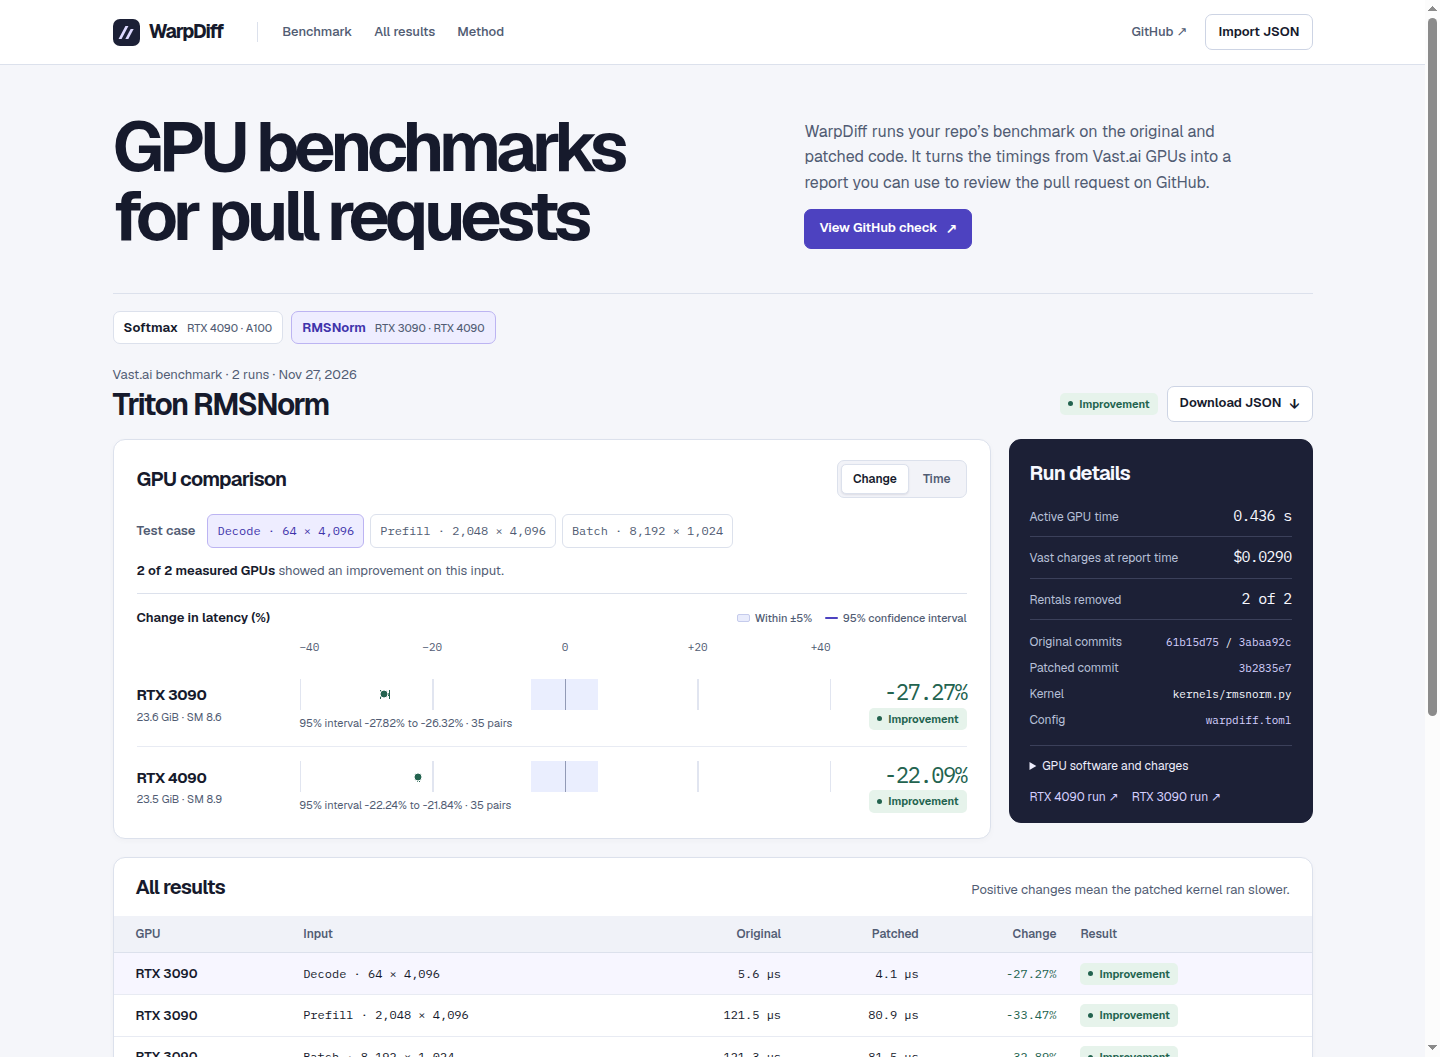
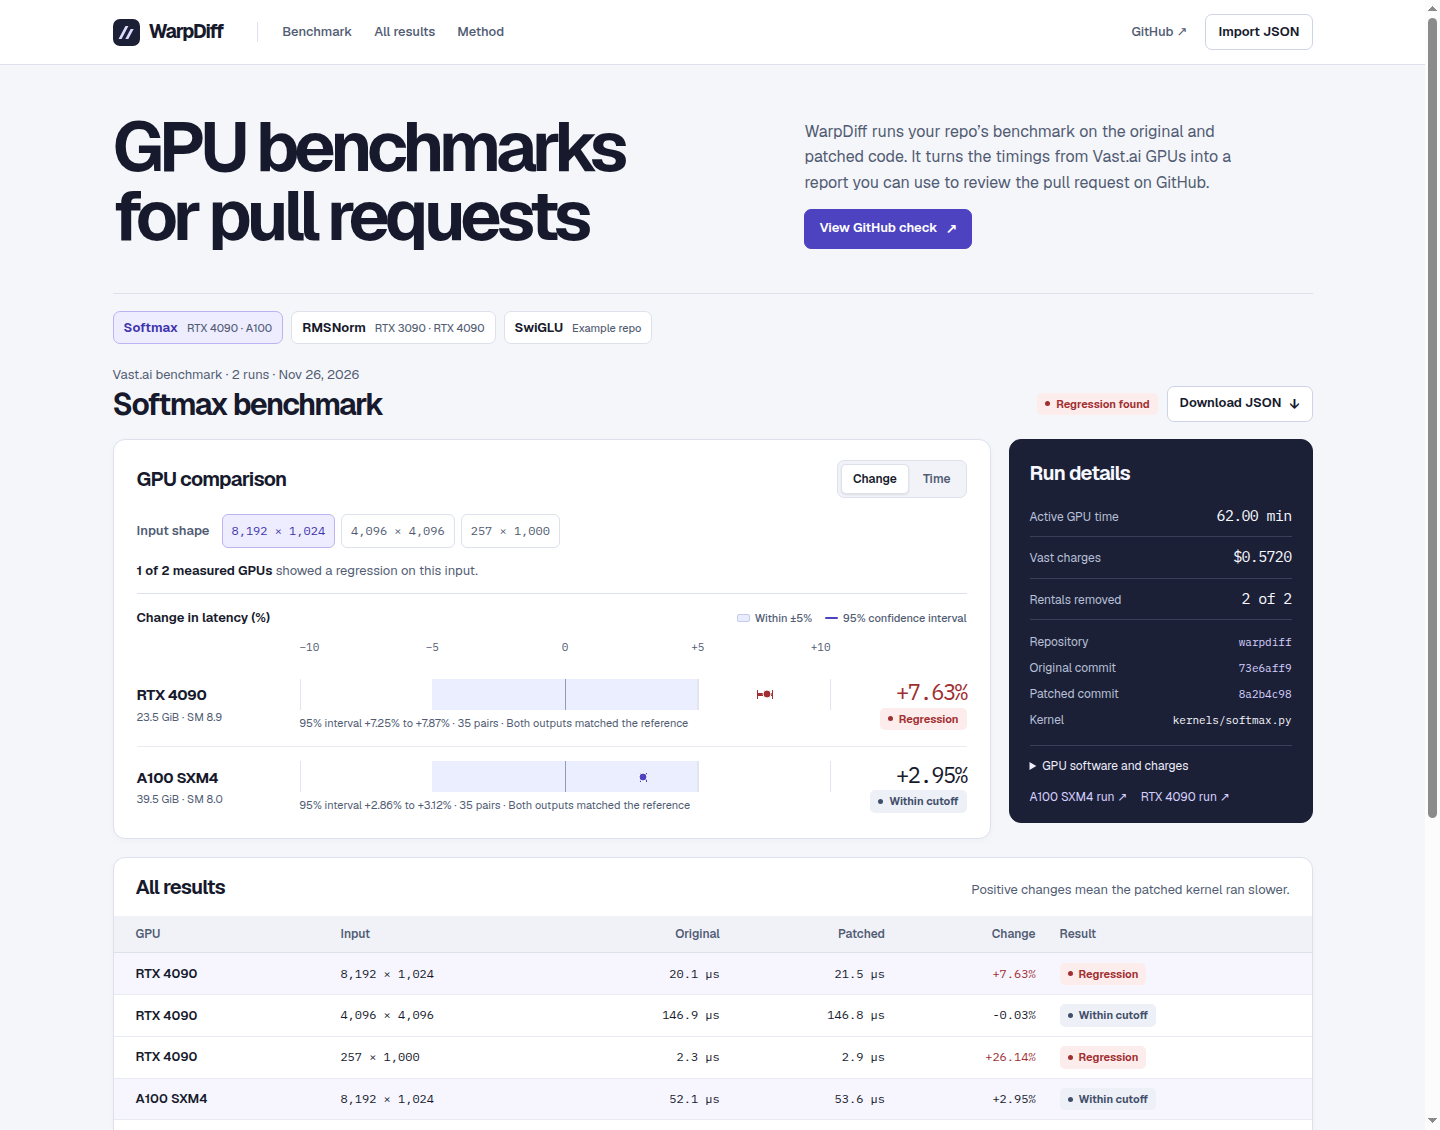
Publish the verified benchmark from the example repository

diff --git a/site/app.js b/site/app.js
@@ -12,7 +12,7 @@ const axisFormatter = new Intl.NumberFormat('en-US', {maximumSignificantDigits: 
 const dateFormatter = new Intl.DateTimeFormat('en-US', {dateStyle: 'medium', timeZone: 'UTC'});
 const shaPattern = /^[0-9a-f]{40,64}$/i;
 const caseIdPattern = /^[a-z0-9][a-z0-9-]{0,31}$/;
-const publications = {softmax: 'report.json', rmsnorm: 'rmsnorm.json'};
+const publications = {softmax: 'report.json', rmsnorm: 'rmsnorm.json', swiglu: 'swiglu.json'};
 const requestedPublication = new URLSearchParams(window.location?.search ?? '').get('benchmark');
 const publication = Object.hasOwn(publications, requestedPublication) ? requestedPublication : 'softmax';
 const publicationPath = publications[publication];
@@ -164,13 +164,14 @@ function gpuRow(card, item, limit, timeView) {
     const note = timeView
       ? `Original ${latency(item.base_ms)} · Patched ${latency(item.head_ms)}`
       : `95% interval ${item.interval_pct.map(percent).join(' to ')} · ${item.paired_samples} pairs`;
+    const correctness = item.correctness?.passed === true ? ' · Both outputs matched the reference' : '';
     measurement.append(
       timeView ? timeTrack(item, limit) : changeTrack(item, limit),
-      element('p', 'measurement-note', note),
+      element('p', 'measurement-note', note + correctness),
     );
     verdict.append(element('span', 'delta', percent(item.change_pct)));
   } else {
-    const note = status === 'incorrect' ? 'An output differed from PyTorch.' : 'No timing for this GPU.';
+    const note = status === 'incorrect' ? 'An output differed from the reference.' : 'No timing for this GPU.';
     measurement.append(element('p', 'missing', note));
   }
   verdict.append(badge(status));
@@ -329,6 +330,7 @@ function showProvenance(repoUrl, sources) {
     detail(baselines.size > 1 ? 'Original commits' : 'Original commit', commitLabel(repoUrl, [...baselines])),
     detail('Patched commit', commitLabel(repoUrl, [report.head.sha])),
   ];
+  if (repoUrl) fields.unshift(detail('Repository', githubLink(repoUrl, report.repository.split('/')[1])));
   if (typeof report.kernel === 'string') fields.push(detail('Kernel', report.kernel));
   if (repoUrl && typeof report.benchmark?.id === 'string') {
     fields.push(detail('Config', githubLink(`${repoUrl}/blob/${report.base.sha}/warpdiff.toml`, 'warpdiff.toml')));

diff --git a/site/index.html b/site/index.html
@@ -44,6 +44,7 @@
       <nav class="benchmark-tabs" aria-label="Published benchmarks" id="benchmark-tabs" hidden>
         <a href="./?benchmark=softmax" data-benchmark="softmax">Softmax <span>RTX 4090 · A100</span></a>
         <a href="./?benchmark=rmsnorm" data-benchmark="rmsnorm">RMSNorm <span>RTX 3090 · RTX 4090</span></a>
+        <a href="./?benchmark=swiglu" data-benchmark="swiglu">SwiGLU <span>Example repo</span></a>
       </nav>
       <header class="report-header">
         <div>
@@ -117,6 +118,7 @@
       <div class="method-intro">
         <h2 id="method-title">How the check works</h2>
         <a class="text-link" href="https://github.com/NSEVEjk0/warpdiff#use-warpdiff-in-another-repo">Set up WarpDiff in your repo <span aria-hidden="true">↗</span></a>
+        <a class="text-link" href="https://github.com/NSEVEjk0/warpdiff-triton-example">See the example repo <span aria-hidden="true">↗</span></a>
       </div>
       <ol class="method-steps">
         <li><h3>Check the outputs</h3><p>WarpDiff reads the GPU models and cases from your repo, then compares both versions with the same reference on each GPU.</p></li>

diff --git a/site/styles.css b/site/styles.css
@@ -438,8 +438,8 @@ h1 span { display: block; }
   .intro { grid-template-columns: 1fr; gap: 13px; padding-block: 28px 23px; }
   .intro-context p { font-size: 14px; }
   .intro-context .button { margin-top: 10px; }
-  .benchmark-tabs { gap: 5px; padding-top: 12px; }
-  .benchmark-tabs a { flex-direction: column; padding-inline: 8px; }
+  .benchmark-tabs { display: grid; grid-template-columns: repeat(3, minmax(0, 1fr)); gap: 5px; padding-top: 12px; }
+  .benchmark-tabs a { flex-flow: column nowrap; padding-inline: 8px; }
   .report-header { align-items: start; flex-direction: column; gap: 8px; padding-block: 16px 13px; }
   .report-header h2, .method h2 { font-size: 25px; }
   .comparison { padding: 14px 13px 6px; --plot-columns: minmax(0, 1fr) auto; --plot-gap: 9px; }

diff --git a/submission/README.md b/submission/README.md
@@ -4,9 +4,11 @@
 
 [RMSNorm report](https://warpdiff.vercel.app/?benchmark=rmsnorm) · [RMSNorm check](https://github.com/NSEVEjk0/warpdiff/pull/2/checks)
 
+[SwiGLU report](https://warpdiff.vercel.app/?benchmark=swiglu) · [SwiGLU check in the example repo](https://github.com/NSEVEjk0/warpdiff-triton-example/runs/140704413666)
+
 [Demo screenshot](https://warpdiff.vercel.app/demo.png)
 
-The softmax benchmark tested commit `8a2b4c98ac54df066330360c46a2ba392ff2641c`. The RMSNorm benchmark tested `3b2835e7df8f73e9511dfe4d3f6e0cac59919769`.
+The softmax benchmark tested commit `8a2b4c98ac54df066330360c46a2ba392ff2641c`. The RMSNorm benchmark tested `3b2835e7df8f73e9511dfe4d3f6e0cac59919769`. The SwiGLU benchmark tested `8d1dfa1e0c4bacea0e11141b8e54804ba529a2dc`.
 
 ## What the runs show
 
@@ -14,7 +16,9 @@ The softmax benchmark tested commit `8a2b4c98ac54df066330360c46a2ba392ff2641c`. 
 
 **RMSNorm.** The configuration selected three cases, an RTX 3090, and an RTX 4090. Both versions matched PyTorch for all three inputs on both GPUs. Fusing the reduction and scaling lowered kernel time by **21–33%**, and the check passed. The first RTX 3090 offer expired before rental. WarpDiff reused the 4090 timings on the retry and verified the source and benchmark definition before combining the results. [Config](https://github.com/NSEVEjk0/warpdiff/blob/main/warpdiff.toml) · [Combined RMSNorm run](https://github.com/NSEVEjk0/warpdiff/actions/runs/46041898731)
 
-Both reports include the raw timings and rental charges. Vast confirmed the benchmark rentals were deleted.
+**SwiGLU.** The separate example repo installed WarpDiff v0.2.1 and supplied its own kernel, PyTorch reference, and two input sizes. Both versions matched PyTorch on an RTX 3090. Fusing the activation and multiplication lowered kernel time by **35.35%** for 65,537 elements and **39.82%** for 4,194,304 elements. [Example workflow](https://github.com/NSEVEjk0/warpdiff-triton-example/blob/main/.github/workflows/warpdiff.yml) · [Vast benchmark run](https://github.com/NSEVEjk0/warpdiff-triton-example/actions/runs/46057769048)
+
+Each report includes the raw timings and rental charges. Vast confirmed the benchmark rentals were deleted.
 
 ## Entry requirements
 
@@ -28,7 +32,7 @@ The deadline for both is Sunday, November 29, 2026 at 11:59 p.m. PST, which is M
 
 1. Open Softmax on the `8,192 × 1,024` input. Show where the patch crossed the cutoff on the RTX 4090. Open the pull request check.
 2. Switch to RMSNorm. Show the config’s GPU choices and cases, then open the passing pull request check for the fused kernel.
-3. Show where another repo can add its own benchmark and call the same action. Both reports have a JSON download with the individual timings.
+3. Open SwiGLU and follow the check to the separate repo. Show the workflow step that calls the released action and the two cases in `warpdiff.toml`. Use Download JSON to see the individual timings.
 
 Credit the tools you used. WarpDiff rented GPUs from Vast.ai, ran the Triton kernels in the PyTorch CUDA image, and checked the outputs against PyTorch.
 

diff --git a/README.md b/README.md
@@ -2,7 +2,7 @@
 
 WarpDiff runs a repo’s GPU benchmark on the original and patched code. It rents the GPU models you choose from Vast.ai, checks both outputs, and posts the timings under **Checks** on the pull request.
 
-[Softmax report](https://warpdiff.vercel.app/?benchmark=softmax) · [RMSNorm report](https://warpdiff.vercel.app/?benchmark=rmsnorm)
+[Softmax report](https://warpdiff.vercel.app/?benchmark=softmax) · [RMSNorm report](https://warpdiff.vercel.app/?benchmark=rmsnorm) · [SwiGLU report](https://warpdiff.vercel.app/?benchmark=swiglu)
 
 The softmax check caught a regression on the RTX 4090. The RMSNorm check measured an improvement on the RTX 3090 and RTX 4090. Both tests ran on Vast.ai. [Softmax pull request](https://github.com/NSEVEjk0/warpdiff/pull/1/checks) · [RMSNorm pull request](https://github.com/NSEVEjk0/warpdiff/pull/2/checks)
 
@@ -16,6 +16,8 @@ The softmax check caught a regression on the RTX 4090. The RMSNorm check measure
 Use the optional `gpu` and `comparison_run` inputs to retry a missing GPU and combine it with an earlier report. The runs must use the same source files, test definition, and cutoff. Use `max_hourly` to cap the quoted hourly rate for each rental.
 
 ## Use WarpDiff in another repo
+
+The example repo uses the released action to test a SwiGLU change on Vast.ai. It has a small benchmark definition, a PyTorch reference, and a real pull request with a passing check. [Example repo](https://github.com/NSEVEjk0/warpdiff-triton-example) · [Pull request](https://github.com/NSEVEjk0/warpdiff-triton-example/pull/1/checks)
 
 Add `warpdiff.toml` and a benchmark adapter to your default branch. Add the scoped secret described above, then copy the following workflow into `.github/workflows/warpdiff.yml`. The action reads the config and adapter from the checked-out default branch. Use it for pull requests from branches in your repo whose code you trust.
 
@@ -47,7 +49,7 @@ jobs:
         with:
           fetch-depth: 0
           persist-credentials: false
-      - uses: NSEVEjk0/warpdiff@v0.2.0
+      - uses: NSEVEjk0/warpdiff@v0.2.1
         with:
           pull_request: ${{ inputs.pull_request }}
           benchmark: ${{ inputs.benchmark }}
